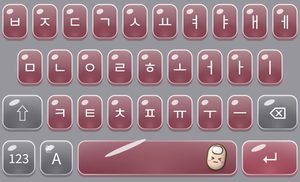
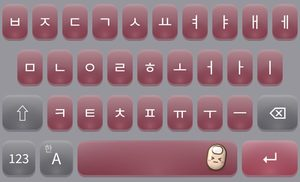
2026.11.12-14 버건디 스페셜 키 흰 선 제거
Claude-Session: https://claude.ai/code/session_01GvSCgEXELCVfxACkb9NKF6

diff --git a/Shared/KBTheme.swift b/Shared/KBTheme.swift
@@ -30,6 +30,7 @@ struct KBTheme {
     var cap: String = "jelly"         // 키캡 모양: jelly 젤리 · round 동글 타자기 · clear 투명 젤리 · clay 클레이 · sa 레트로 기계식
     var stitch: UIColor? = nil        // 가죽 박음질 색 (글자 키 안쪽 점선)
     var metal: Bool = false           // 엔터 키를 금속처럼 반짝이게
+    var noRim: Bool = false           // 키 가장자리 흰 선·흰 반짝임 없이
     var group: String = "color"       // color: 컬러 · retro: 레트로 (둘 다 키캡 모양 고르기) · winter: 겨울 (기계식 고정)
 
     var menuName: String { short ?? name }
@@ -164,22 +165,22 @@ struct KBTheme {
                 bg: c(150, 150, 156), key: c(118, 26, 44), special: c(70, 70, 76),
                 pressKey: c(106, 23, 39), pressSpecial: c(61, 61, 66),
                 text: .white, specialText: .white,
-                accent: c(150, 34, 56), depth: 4, radius: 10, short: "버건디 키", group: "special"),
+                accent: c(150, 34, 56), depth: 4, radius: 10, short: "버건디 키", noRim: true, group: "special"),
         KBTheme(id: "bur_silver", name: "실버 키",
                 bg: c(110, 22, 40), key: c(206, 206, 210), special: c(150, 150, 156),
                 pressKey: c(185, 185, 189), pressSpecial: c(132, 132, 137),
                 text: c(110, 22, 40), specialText: .white,
-                accent: c(70, 70, 76), depth: 4, radius: 10, short: "실버 키", group: "special"),
+                accent: c(70, 70, 76), depth: 4, radius: 10, short: "실버 키", noRim: true, group: "special"),
         KBTheme(id: "bur_charcoal", name: "버건디 차콜",
                 bg: c(72, 72, 78), key: c(120, 28, 48), special: c(40, 40, 44),
                 pressKey: c(108, 25, 43), pressSpecial: c(35, 35, 38),
                 text: c(236, 226, 228), specialText: c(210, 210, 216),
-                accent: c(150, 150, 158), depth: 4, radius: 10, short: "버건디 차콜", group: "special"),
+                accent: c(150, 150, 158), depth: 4, radius: 10, short: "버건디 차콜", noRim: true, group: "special"),
         KBTheme(id: "bur_gold", name: "버건디 실버",
                 bg: c(70, 12, 26), key: c(128, 24, 46), special: c(92, 16, 32),
                 pressKey: c(115, 21, 41), pressSpecial: c(80, 14, 28),
                 text: c(232, 234, 240), specialText: c(214, 216, 224),
-                accent: c(158, 162, 176), depth: 4, radius: 10, short: "버건디 실버", group: "special"),
+                accent: c(158, 162, 176), depth: 4, radius: 10, short: "버건디 실버", noRim: true, group: "special"),
     ]
 
     static var colors: [KBTheme] { all.filter { $0.group == "color" } }

diff --git a/Keyboard/KeyboardView.swift b/Keyboard/KeyboardView.swift
@@ -274,10 +274,10 @@ final class KeyCap: UIView {
                 face.backgroundColor = top.withAlphaComponent(isDown ? 0.75 : 0.55)
                 backgroundColor = top.withAlphaComponent(0.35)
                 grad.colors = [KeyCap.mix(top, .white, 0.55).withAlphaComponent(isDown ? 0.86 : 0.75).cgColor, top.withAlphaComponent(0.0).cgColor]
-                face.layer.borderWidth = 1.3
+                face.layer.borderWidth = t.noRim ? 0 : 1.3
                 face.layer.borderColor = UIColor(white: 1, alpha: 0.85).cgColor
                 gloss.isHidden = true
-                drop.isHidden = isDown
+                drop.isHidden = isDown || t.noRim
                 layer.shadowOpacity = 0
             case "sa":
                 // 레트로 기계식: 아래로 진해지는 몸통 + 가운데가 살짝 오목한 윗면
@@ -295,7 +295,7 @@ final class KeyCap: UIView {
                 // 클레이: 무광 점토. 퍼진 그림자, 누르면 그림자가 줄어듦
                 backgroundColor = .clear
                 grad.colors = [KeyCap.mix(top, .white, isDown ? 0.05 : 0.28).cgColor, KeyCap.mix(top, .black, 0.05).cgColor]
-                face.layer.borderWidth = 1.5
+                face.layer.borderWidth = t.noRim ? 0 : 1.5
                 face.layer.borderColor = UIColor(white: 1, alpha: isDown ? 0.16 : 0.43).cgColor
                 gloss.isHidden = true
                 layer.shadowColor = KeyCap.mix(top, .black, 0.45).cgColor
@@ -303,6 +303,7 @@ final class KeyCap: UIView {
                 layer.shadowRadius = isDown ? 1.5 : 3.5
             default: break
             }
+            if t.noRim && t.cap == "jelly" { gloss.isHidden = true }
             CATransaction.commit()
             setNeedsLayout()
         } else {

diff --git a/App/FingerErrorApp.swift b/App/FingerErrorApp.swift
@@ -96,7 +96,7 @@ struct ContentView: View {
                 }
             }
             .safeAreaInset(edge: .bottom) {
-                Text("버전 2026.11.12-13 (레드 블루 금 엔터) · 100개마다 리포트 · 한/A 영어 · 테마별 팻핑이 · 기념일").font(.caption2).foregroundStyle(.secondary).padding(4)
+                Text("버전 2026.11.12-14 (버건디 흰 선 제거) · 100개마다 리포트 · 한/A 영어 · 테마별 팻핑이 · 기념일").font(.caption2).foregroundStyle(.secondary).padding(4)
             }
             .navigationTitle("핑거에러")
             // 3D 젤리: 크림 배경 + 복숭아 포인트
